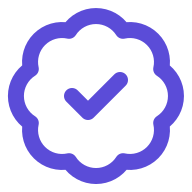
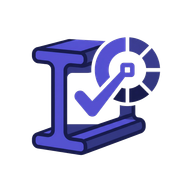
chore: Assets (Gemini AI) + A11y-Fixes deployed
- Logo, Favicon-Set, OG-Image via Gemini Nano Banana 2 generiert
- Heading-Hierarchie korrigiert (h3→h2 in funktionen + blog/[slug])
- Skip-to-Content Link in layout.tsx hinzugefuegt
- aria-label auf Footer Newsletter-Input gesetzt

diff --git a/src/app/layout.tsx b/src/app/layout.tsx
@@ -53,11 +53,11 @@ export const metadata: Metadata = {
   },
   icons: {
     icon: [
-      { url: "/favicon-32x32.png", sizes: "32x32", type: "image/png" },
-      { url: "/favicon-16x16.png", sizes: "16x16", type: "image/png" },
+      { url: "/favicon.ico", sizes: "any" },
+      { url: "/favicon-16x16.png", type: "image/png", sizes: "16x16" },
+      { url: "/favicon-32x32.png", type: "image/png", sizes: "32x32" },
     ],
-    apple: [{ url: "/apple-touch-icon.png", sizes: "180x180" }],
-    shortcut: "/favicon.ico",
+    apple: "/apple-touch-icon.png",
   },
   robots: {
     index: true,
@@ -82,6 +82,12 @@ export default function RootLayout({
       <body
         className={`${inter.variable} antialiased min-h-screen flex flex-col`}
       >
+        <a
+          href="#main"
+          className="sr-only focus:not-sr-only focus:fixed focus:top-4 focus:left-4 focus:z-50 focus:px-4 focus:py-2 focus:bg-background focus:text-foreground focus:rounded-md focus:shadow-lg"
+        >
+          Zum Inhalt springen
+        </a>
         <WebSiteSchema />
         <OrganizationSchema />
         <SoftwareAppSchema
@@ -90,7 +96,9 @@ export default function RootLayout({
           url="/lieferantenmanagement-software"
         />
         <Navbar />
-        <main className="flex-1">{children}</main>
+        <main id="main" className="flex-1">
+          {children}
+        </main>
         <Footer />
       </body>
     </html>

diff --git a/src/app/blog/[slug]/page.tsx b/src/app/blog/[slug]/page.tsx
@@ -96,9 +96,9 @@ export default async function BlogPostPage({ params }: Props) {
             </div>
           )}
           <div className="mt-10 bg-primary/5 border border-primary/20 rounded-xl p-6">
-            <h3 className="font-semibold mb-2">
+            <h2 className="font-semibold mb-2 text-base">
               ZulieferCheck — Subunternehmer-Zertifikate automatisch überwachen
-            </h3>
+            </h2>
             <p className="text-muted-foreground text-sm mb-4">
               Automatische Ablauf-Erinnerungen, Zulieferer-Portal für
               Selbst-Upload, Audit-Cockpit mit Ampeldarstellung — EN 1090-2

diff --git a/src/app/funktionen/page.tsx b/src/app/funktionen/page.tsx
@@ -145,7 +145,9 @@ export default function FunktionenPage() {
                     {feature.highlight}
                   </span>
                 </div>
-                <h3 className="font-semibold mb-2">{feature.title}</h3>
+                <h2 className="font-semibold mb-2 text-base">
+                  {feature.title}
+                </h2>
                 <p className="text-muted-foreground text-sm leading-relaxed">
                   {feature.description}
                 </p>

diff --git a/src/components/layout/Footer.tsx b/src/components/layout/Footer.tsx
@@ -51,6 +51,7 @@ export function Footer() {
                   value={email}
                   onChange={(e) => setEmail(e.target.value)}
                   required
+                  aria-label="E-Mail-Adresse für Newsletter"
                   className="bg-background/10 border-background/20 text-background placeholder:text-background/50 flex-1"
                 />
                 <Button
